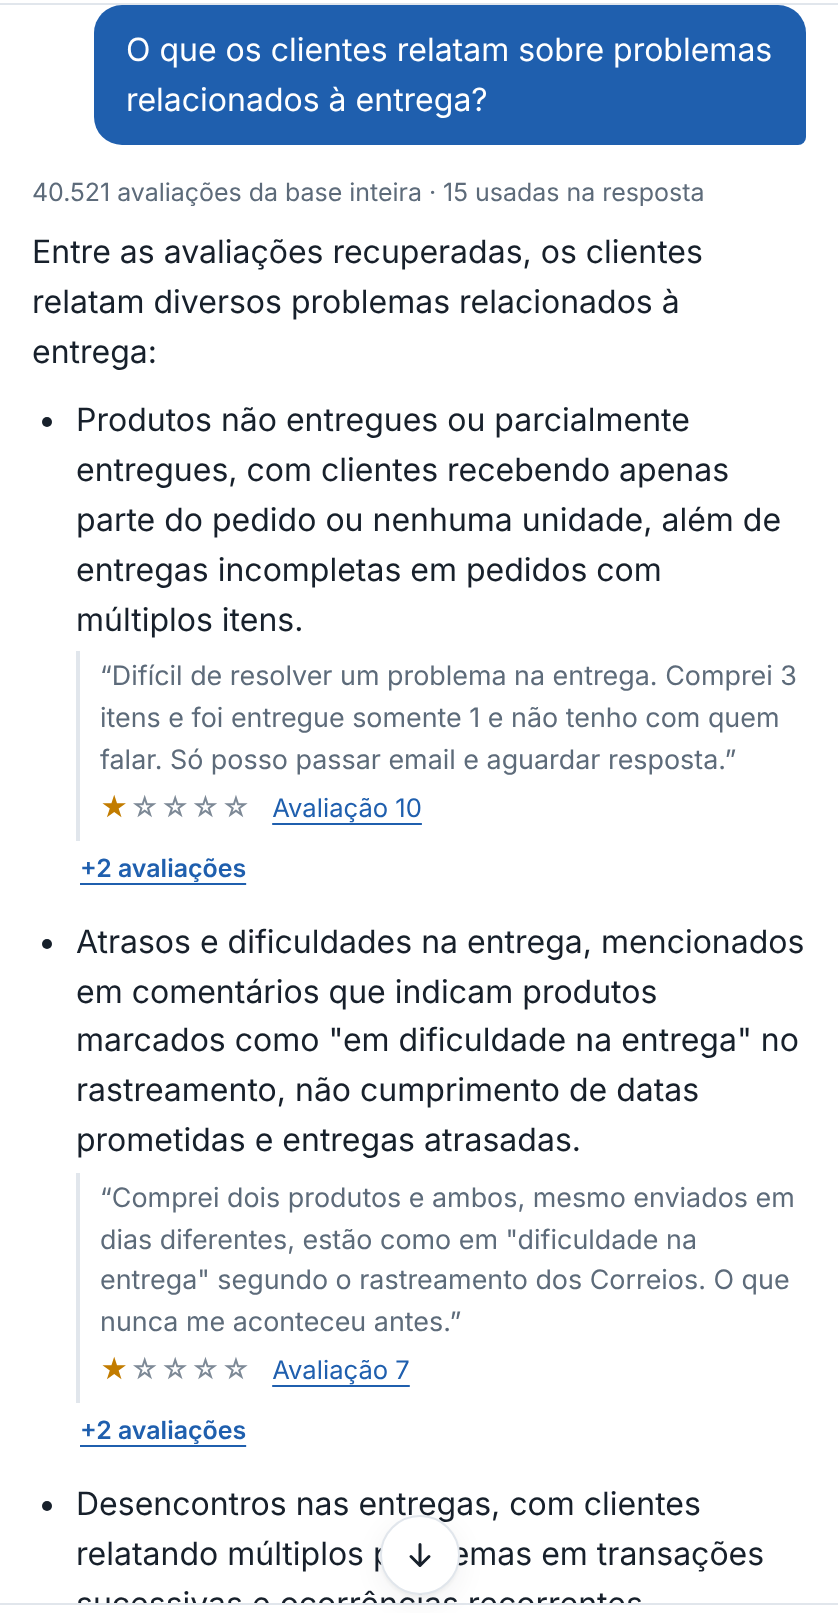
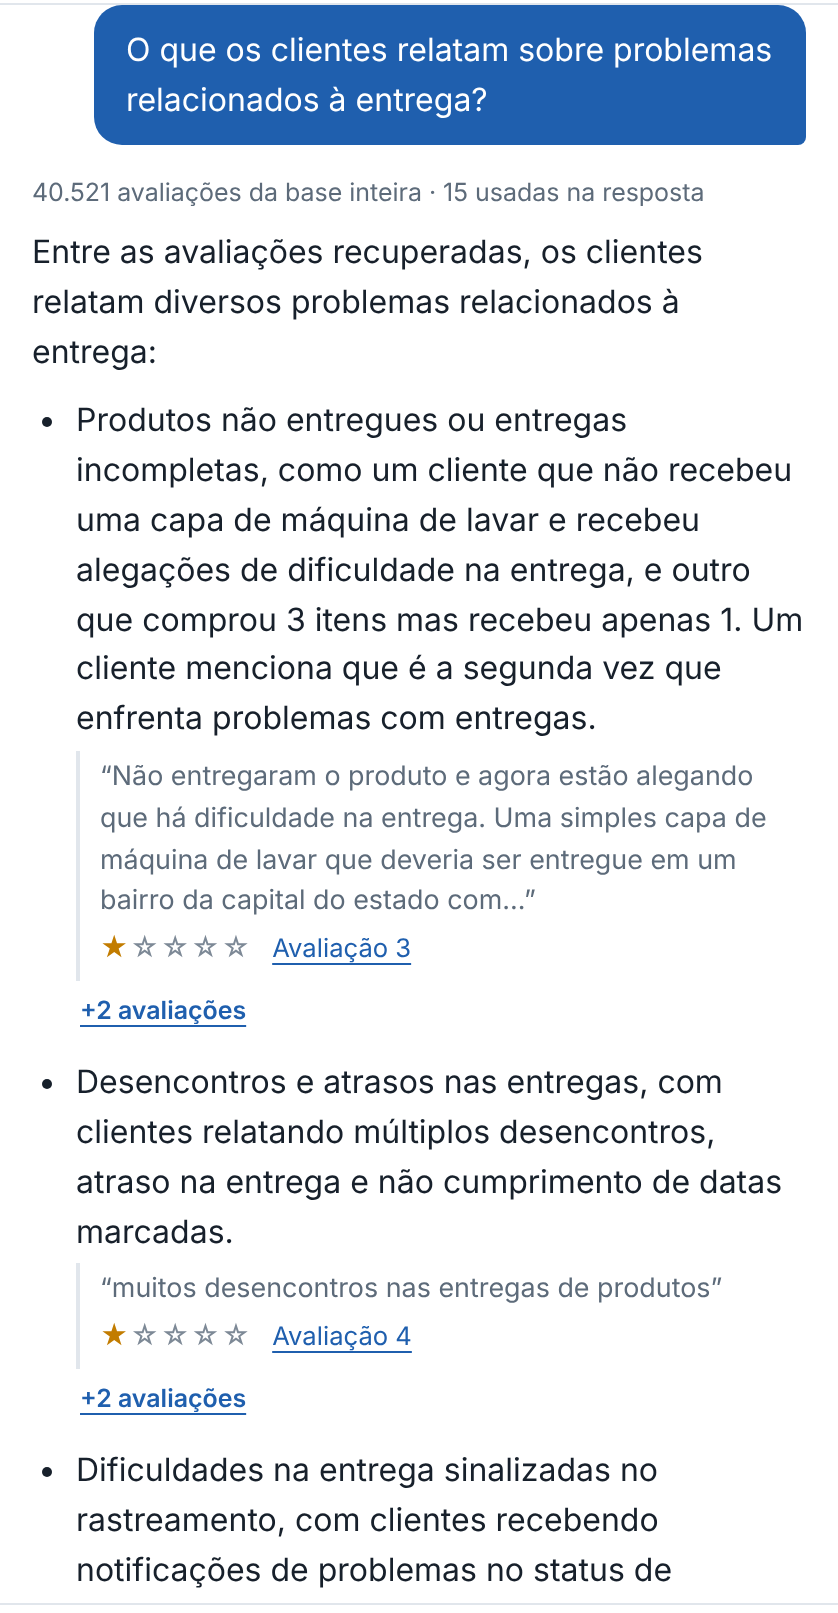
Prints novos nos slides, sem a seta de rolagem
O slide da solução passa a mostrar a pergunta dos aspectos mais elogiados,
e os prints da resposta sobre entrega e da recorrência de prazo foram
tirados de novo. Nos anteriores, a seta de rolagem do chat cobria parte do
texto da resposta.

Changed region(s): [[0.0931, 0.248, 0.9618, 1.0]]

diff --git a/docs/apresentacao/index.html b/docs/apresentacao/index.html
@@ -151,7 +151,7 @@ th, td { padding: 0.45em 0.6em; border-bottom: 1px solid #CFC8BA; vertical-align
 <h2>Um painel e um chat com evidências</h2>
 </div>
 <div class="linha" style="align-items:flex-start;">
-<img src="img/solucao-painel-chat.png" alt="Tela do Voz do Cliente: painel da Diretoria geral com indicadores e temas, e o chat ao lado respondendo sobre os principais problemas com trechos das avaliações" style="width:1152px; height:648px; object-fit:contain; border-radius:12px; border:2px solid #CFC8BA;">
+<img src="img/solucao-painel-chat.png" alt="Tela do Voz do Cliente: painel da Diretoria geral com indicadores e temas, e o chat ao lado respondendo sobre os aspectos mais elogiados com trechos das avaliações" style="width:1152px; height:648px; object-fit:contain; border-radius:12px; border:2px solid #CFC8BA;">
 <div class="col" style="gap:28px;">
 <div class="entra" style="--i:0"><h3 style="font-size:34px;">Painel por setor</h3><p class="nota" style="font-size:26px;">Temas com contagem e evolução mês a mês. Mostra o quanto.</p></div>
 <div class="entra" style="--i:1"><h3 style="font-size:34px;">Chat com evidências</h3><p class="nota" style="font-size:26px;">Cada frase traz os comentários que a sustentam. Mostra o porquê.</p></div>
